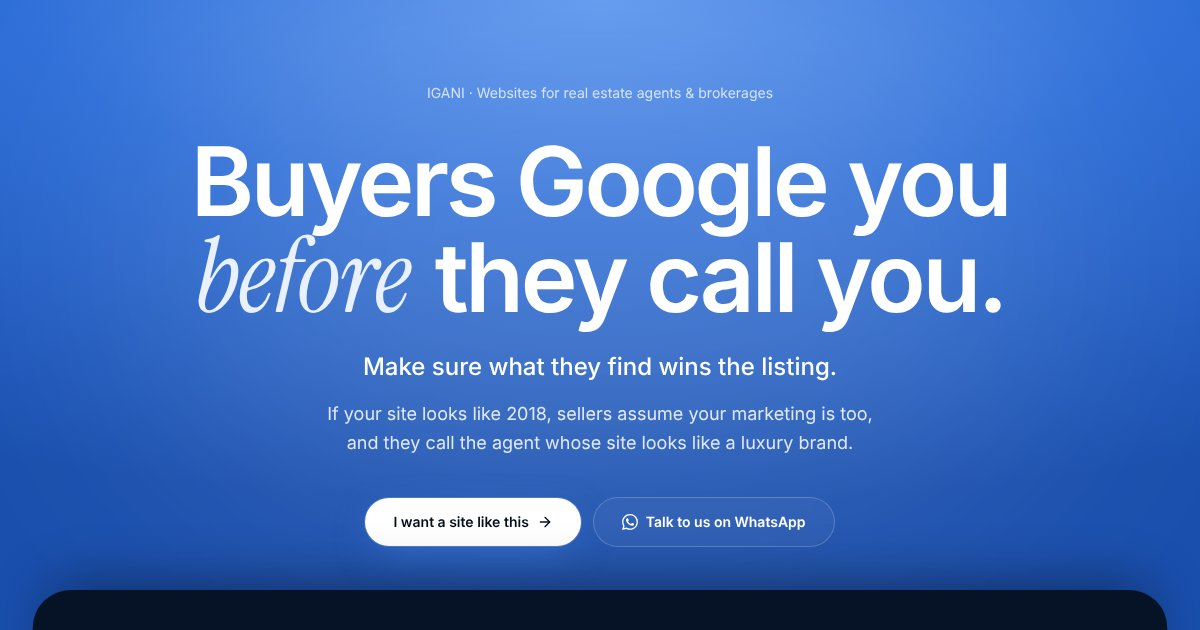
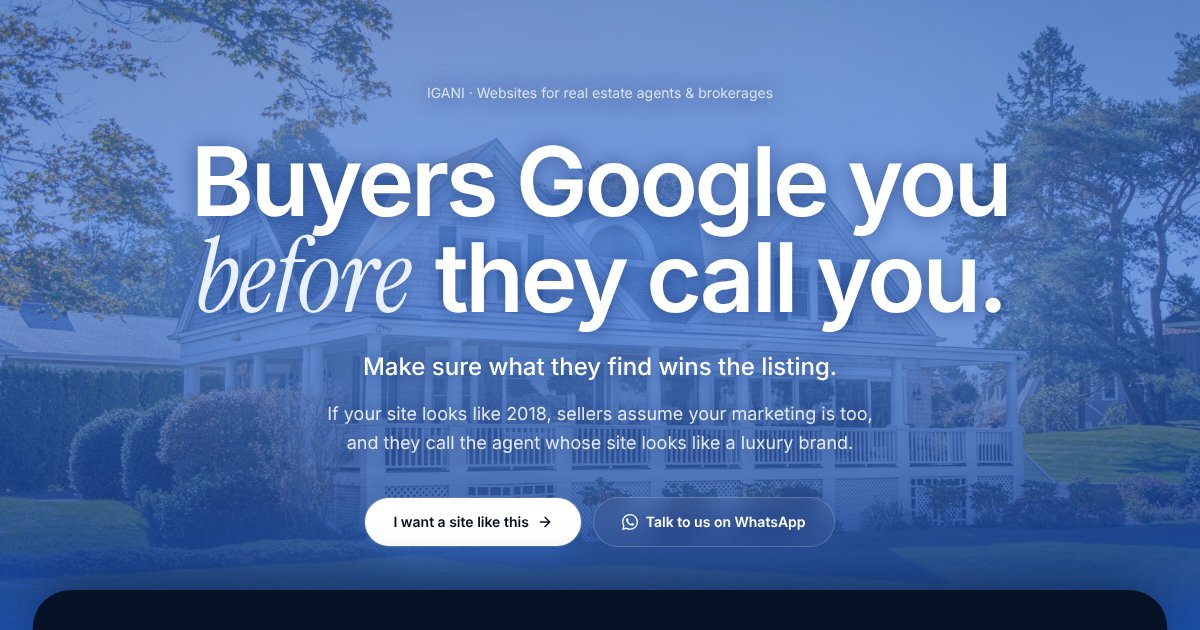
Real estate funnel: house photo behind the hero
A porch-front home under a brand-blue wash with a very slow drift, a soft
text shadow for legibility, and a 1600px copy of the photo (~320 KB) so
the ad landing stays fast. Share image refreshed to match.

Claude-Session: https://claude.ai/code/session_014zaGJzbMyCr4BvfJ5HSRpv

diff --git a/app/realestate/page.tsx b/app/realestate/page.tsx
@@ -13,6 +13,7 @@ import { CursorGlow } from '@/app/components/landing/fx/CursorGlow'
 import { SectionRail } from '@/app/components/landing/fx/SectionRail'
 import { displaySerif } from '@/app/components/landing/fx/fonts'
 import { Hero } from '@/app/components/realestate/Hero'
+import { HeroBackdrop } from '@/app/components/realestate/HeroBackdrop'
 import { CompareSlider } from '@/app/components/funnel3/CompareSlider'
 import { Proof } from '@/app/components/funnel3/Proof'
 import { OurWork } from '@/app/components/realestate/OurWork'
@@ -163,7 +164,8 @@ export default function RealEstatePage() {
       {/* Each section is a sheet that slides over the last, alternating surfaces so every chapter reads as a stop */}
       <main className="relative">
         {/* Opening screen shares the closing section's brand blue so the page starts on its boldest note */}
-        <div className="bg-[radial-gradient(120%_80%_at_50%_0%,#5b95ee_0%,#2f6fd8_40%,#1a4fae_100%)]">
+        <div className="relative bg-[radial-gradient(120%_80%_at_50%_0%,#5b95ee_0%,#2f6fd8_40%,#1a4fae_100%)]">
+          <HeroBackdrop />
           <FunnelBanner className="mt-[76px] sm:mt-[92px]" />
           <Hero onCta={scrollToForm} />
         </div>

diff --git a/app/components/realestate/HeroBackdrop.tsx b/app/components/realestate/HeroBackdrop.tsx
@@ -1,0 +1,25 @@
+/* eslint-disable @next/next/no-img-element */
+
+/**
+ * Real estate photo behind the opening screen. The photo sits under a brand-blue wash so
+ * the white headline stays readable and the page still opens on IGANI blue.
+ */
+export function HeroBackdrop() {
+  return (
+    <div aria-hidden className="pointer-events-none absolute inset-0 overflow-hidden">
+      <img
+        id="hero-photo"
+        src="/work/hero-home.jpg"
+        alt=""
+        // Already above the fold, so don't lazy-load it
+        fetchPriority="high"
+        decoding="async"
+        className="absolute inset-0 h-full w-full object-cover object-center motion-safe:animate-[hero-drift_28s_ease-in-out_infinite_alternate]"
+      />
+      <div className="absolute inset-0 bg-[linear-gradient(180deg,rgba(26,79,174,0.66)_0%,rgba(38,98,206,0.6)_45%,rgba(20,60,140,0.88)_100%)]" />
+      <div className="absolute inset-0 bg-[radial-gradient(70%_55%_at_50%_42%,rgba(47,111,216,0.55)_0%,transparent_70%)]" />
+      {/* Melts into the next section instead of ending on a hard line */}
+      <div className="absolute inset-x-0 bottom-0 h-32 bg-gradient-to-t from-[#1a4fae]/80 to-transparent" />
+    </div>
+  )
+}

diff --git a/app/components/realestate/Hero.tsx b/app/components/realestate/Hero.tsx
@@ -21,7 +21,7 @@ export function Hero({ onCta }: { onCta: () => void }) {
     <section className="relative isolate flex min-h-[100svh] flex-col overflow-hidden" aria-label="IGANI for real estate">
       <div aria-hidden className="pointer-events-none absolute left-1/2 top-0 h-[520px] w-[900px] -translate-x-1/2 rounded-full bg-white/15 blur-[140px]" />
 
-      <div className="relative z-10 mx-auto flex w-full max-w-6xl flex-1 flex-col items-center justify-center px-4 pb-24 pt-32 text-center sm:px-6 lg:px-8">
+      <div className="relative z-10 mx-auto flex w-full max-w-6xl flex-1 flex-col items-center justify-center px-4 pb-24 pt-32 text-center [text-shadow:0_1px_20px_rgba(8,32,100,0.55)] sm:px-6 lg:px-8">
         <motion.p {...fadeUp(0)} className="mb-8 text-sm text-white/75">
           IGANI · Websites for real estate agents &amp; brokerages
         </motion.p>

diff --git a/app/globals.css b/app/globals.css
@@ -333,3 +333,9 @@
   46%, 54% { background-position: 50% 100%; }
   92%, 100% { background-position: 50% 0%; }
 }
+
+/* Real estate funnel hero: the photo behind the headline drifts very slowly */
+@keyframes hero-drift {
+  from { transform: scale(1.04) translate3d(0, 0, 0); }
+  to { transform: scale(1.12) translate3d(-1.5%, -1%, 0); }
+}
